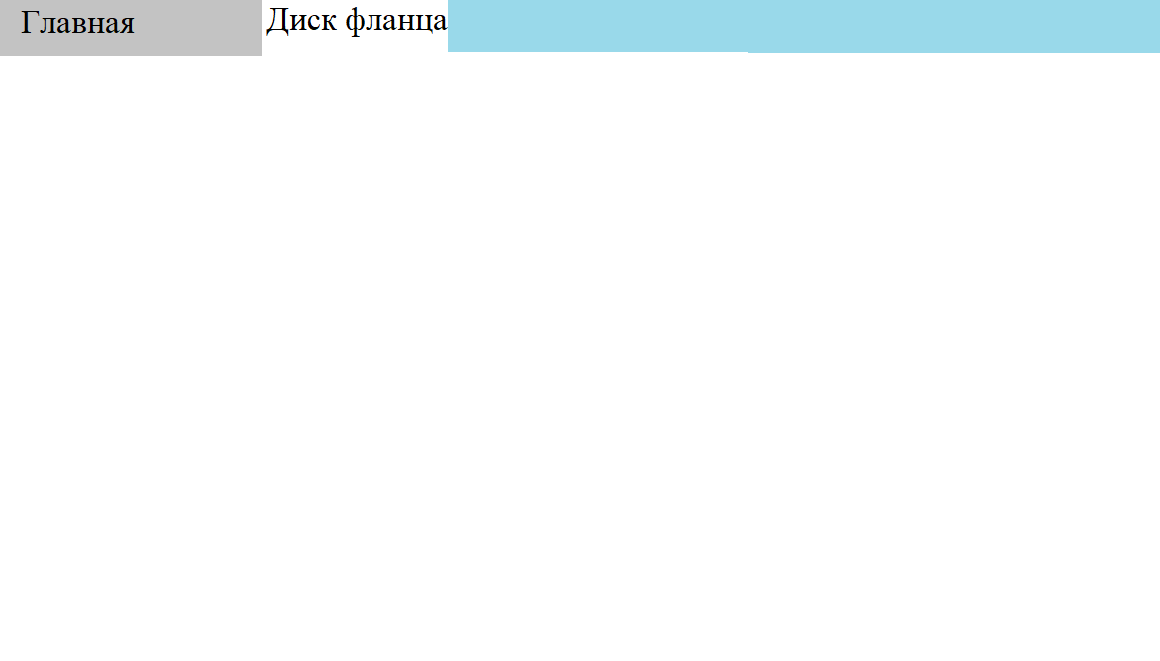
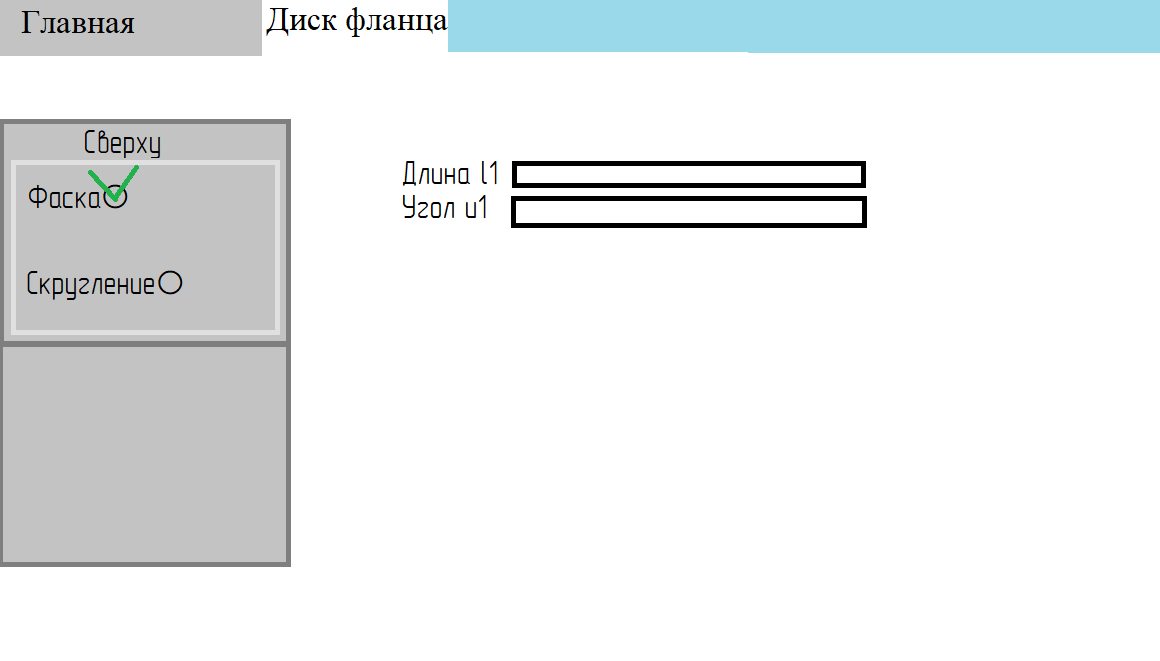
Process of creating of the FlangeDiscItem.
P.S.This is a prototype

Changed region(s): [[0.0, 0.1815, 0.2483, 0.8775], [0.3414, 0.2421, 0.7448, 0.3631]]

diff --git a/Other/Extra sizes/ExtraSizesWindow.xaml b/Other/Extra sizes/ExtraSizesWindow.xaml
@@ -27,7 +27,7 @@
                             <DataGridTextColumn x:Name="TabTittleCn" Header="Вкладка" Width="0.99*"  ></DataGridTextColumn>
                             <DataGridTextColumn x:Name="SizeTypeCn" Header="Название" Width="1*"  ></DataGridTextColumn>
                             <DataGridTextColumn x:Name="ValueCn" Header="Значение"  Width="1*"   ></DataGridTextColumn>
-                            
+
                         </DataGrid.Columns>
                     </DataGrid>
 
@@ -35,17 +35,17 @@
                     <StackPanel Name="ButtonsMainStPl" Background="Azure" Orientation="Vertical"   HorizontalAlignment="Stretch" Grid.Column="1"  Grid.RowSpan="1"  Grid.Row="1"   Margin="0">
 
                         <Button Name="AcceptBtn" Content="Применить" FontStretch="UltraExpanded" FontFamily="GOST Type B" FontSize="11" Width="{Binding  MainTabButtonsWidth}" FontWeight="Bold" Margin="4" Height="{Binding MainTabButtonsHeight}"    >
-                            
-                            
+
+
                         </Button>
                         <Button x:Name="DeleteCurrentSizebtn"  Content="Удалить выбранный размер" FontFamily="GOST Type B" FontSize="11"  FontWeight="Bold" Height="{Binding MainTabButtonsHeight}" Width="{Binding  MainTabButtonsWidth}" Margin="4"   />
                         <Button Name="deleteAllBtn" Content="Удалить все размеры" FontFamily="GOST Type B" FontSize="11"   FontWeight="Bold" Height="{Binding MainTabButtonsHeight}" Width="{Binding  MainTabButtonsWidth}" Margin="3"  ></Button>
-                        
+
                     </StackPanel>
-                    
 
 
-                    <Border Name="SketchBr" Grid.Column="0" Grid.Row="0" Grid.RowSpan="2" BorderBrush="Black" BorderThickness="2">
+
+                    <Border Name="SketchBr" Grid.Column="0" Grid.Row="0" Grid.RowSpan="2" BorderBrush="Black" BorderThickness="2" Grid.ColumnSpan="2" Height="260" Margin="0,0,163,0" VerticalAlignment="Bottom">
                         <Image Name="SketchIm" Source="{Binding Image}" Grid.Column="0" Grid.Row="0" Grid.RowSpan="2"></Image>
                     </Border>
 
@@ -53,12 +53,41 @@
             </TabItem>
 
             <TabItem Name="FlangeDiscItem" Header="Диск фланца">
-                
-            </TabItem>
-            
-           
 
-        
+               
+                <Border Margin="10,10" BorderBrush="#bababa" BorderThickness="2" >
+                    <Grid Background="#e5e3e8" Margin="0,0"  >
+                        <Grid.ColumnDefinitions>
+                            <ColumnDefinition Width="0.6*"></ColumnDefinition>
+                            <ColumnDefinition></ColumnDefinition>
+                        </Grid.ColumnDefinitions>
+                        <Grid.RowDefinitions>
+                            <RowDefinition></RowDefinition>
+                            <RowDefinition></RowDefinition>
+                        </Grid.RowDefinitions>
+
+                        <Label Name="SizeTittleLbl" Content="Сверху" Margin="0,25"></Label>
+                        <Border BorderThickness="1" BorderBrush="#bababa"  Height="30"  HorizontalAlignment="Left" Margin="4" Width="78" MaxWidth="78" MinWidth="78"  >
+                                <StackPanel Name="RadioStPl" Height="28" HorizontalAlignment="Left" >
+                                    <RadioButton Name="ChamferTopRdBtn" Content="Фаска"  FontFamily="GOST Type B" FontSize="12" HorizontalAlignment="Left" />
+                                    <RadioButton Name="FilletTopRdBtn" Content="Скругление" FontFamily="GOST Type B" FontSize="12"  HorizontalAlignment="Left"/>
+                                </StackPanel>
+                            </Border>
+                     
+
+                        <Border Name="Horizontalbr" Grid.Row="0" Grid.RowSpan="2" Grid.ColumnSpan="2" BorderBrush="#bababa" BorderThickness="3" Height="2" />
+
+                       
+
+                    </Grid>
+                </Border>
+
+
+            </TabItem>
+
+
+
+
 
 
         </TabControl>

diff --git a/Other/Extra sizes/ExtraSizesWindow.xaml.cs b/Other/Extra sizes/ExtraSizesWindow.xaml.cs
@@ -80,8 +80,8 @@ namespace Flange.Other.Extra_sizes
             this.SetBinding(WidthProperty,windowWidthBinding);
             this.SetBinding(HeightProperty, windowHeightBinding);
 
-           
 
+            
 
 
             //StackPanelBr.SetBinding(WidthProperty, stackPanelWidthBinding);
